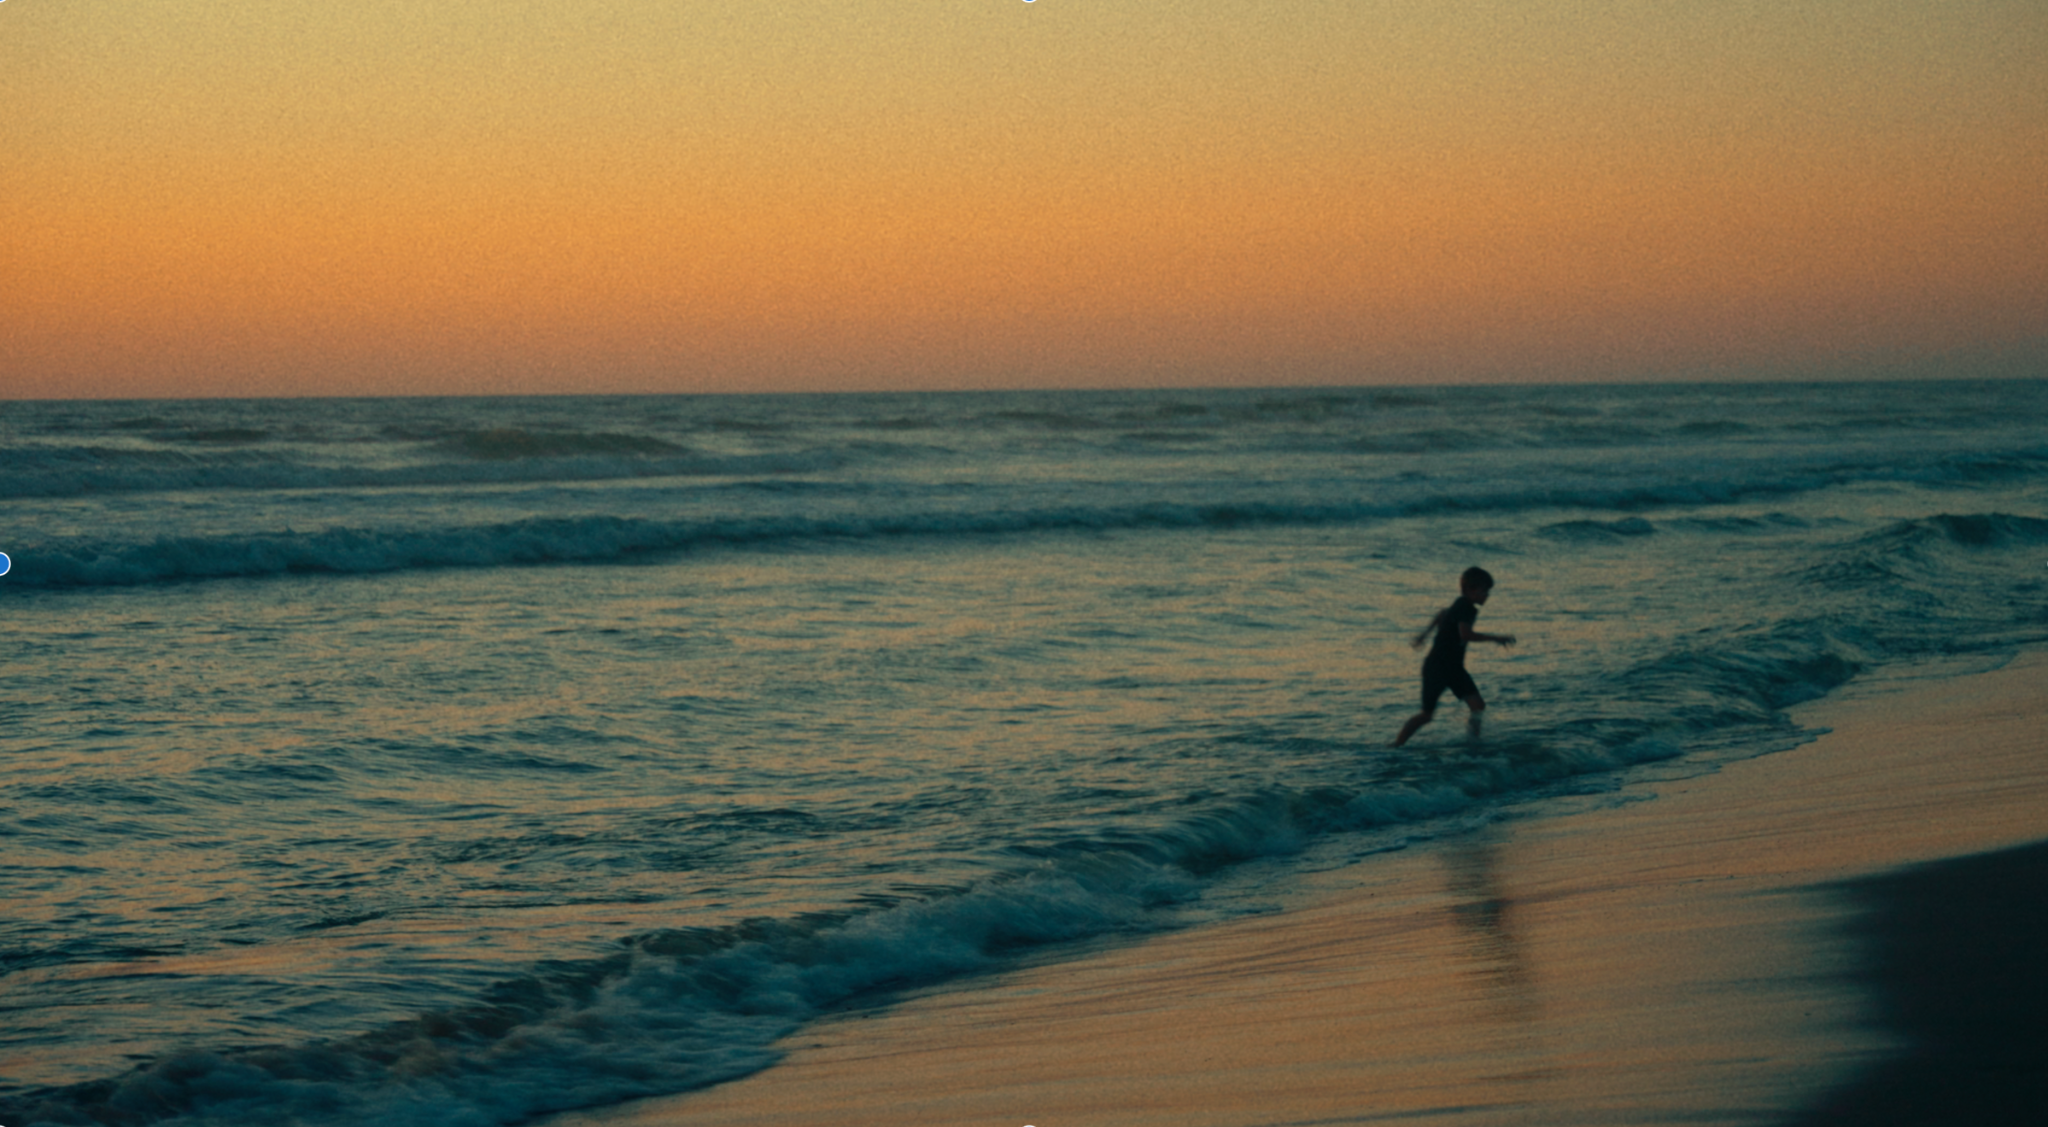
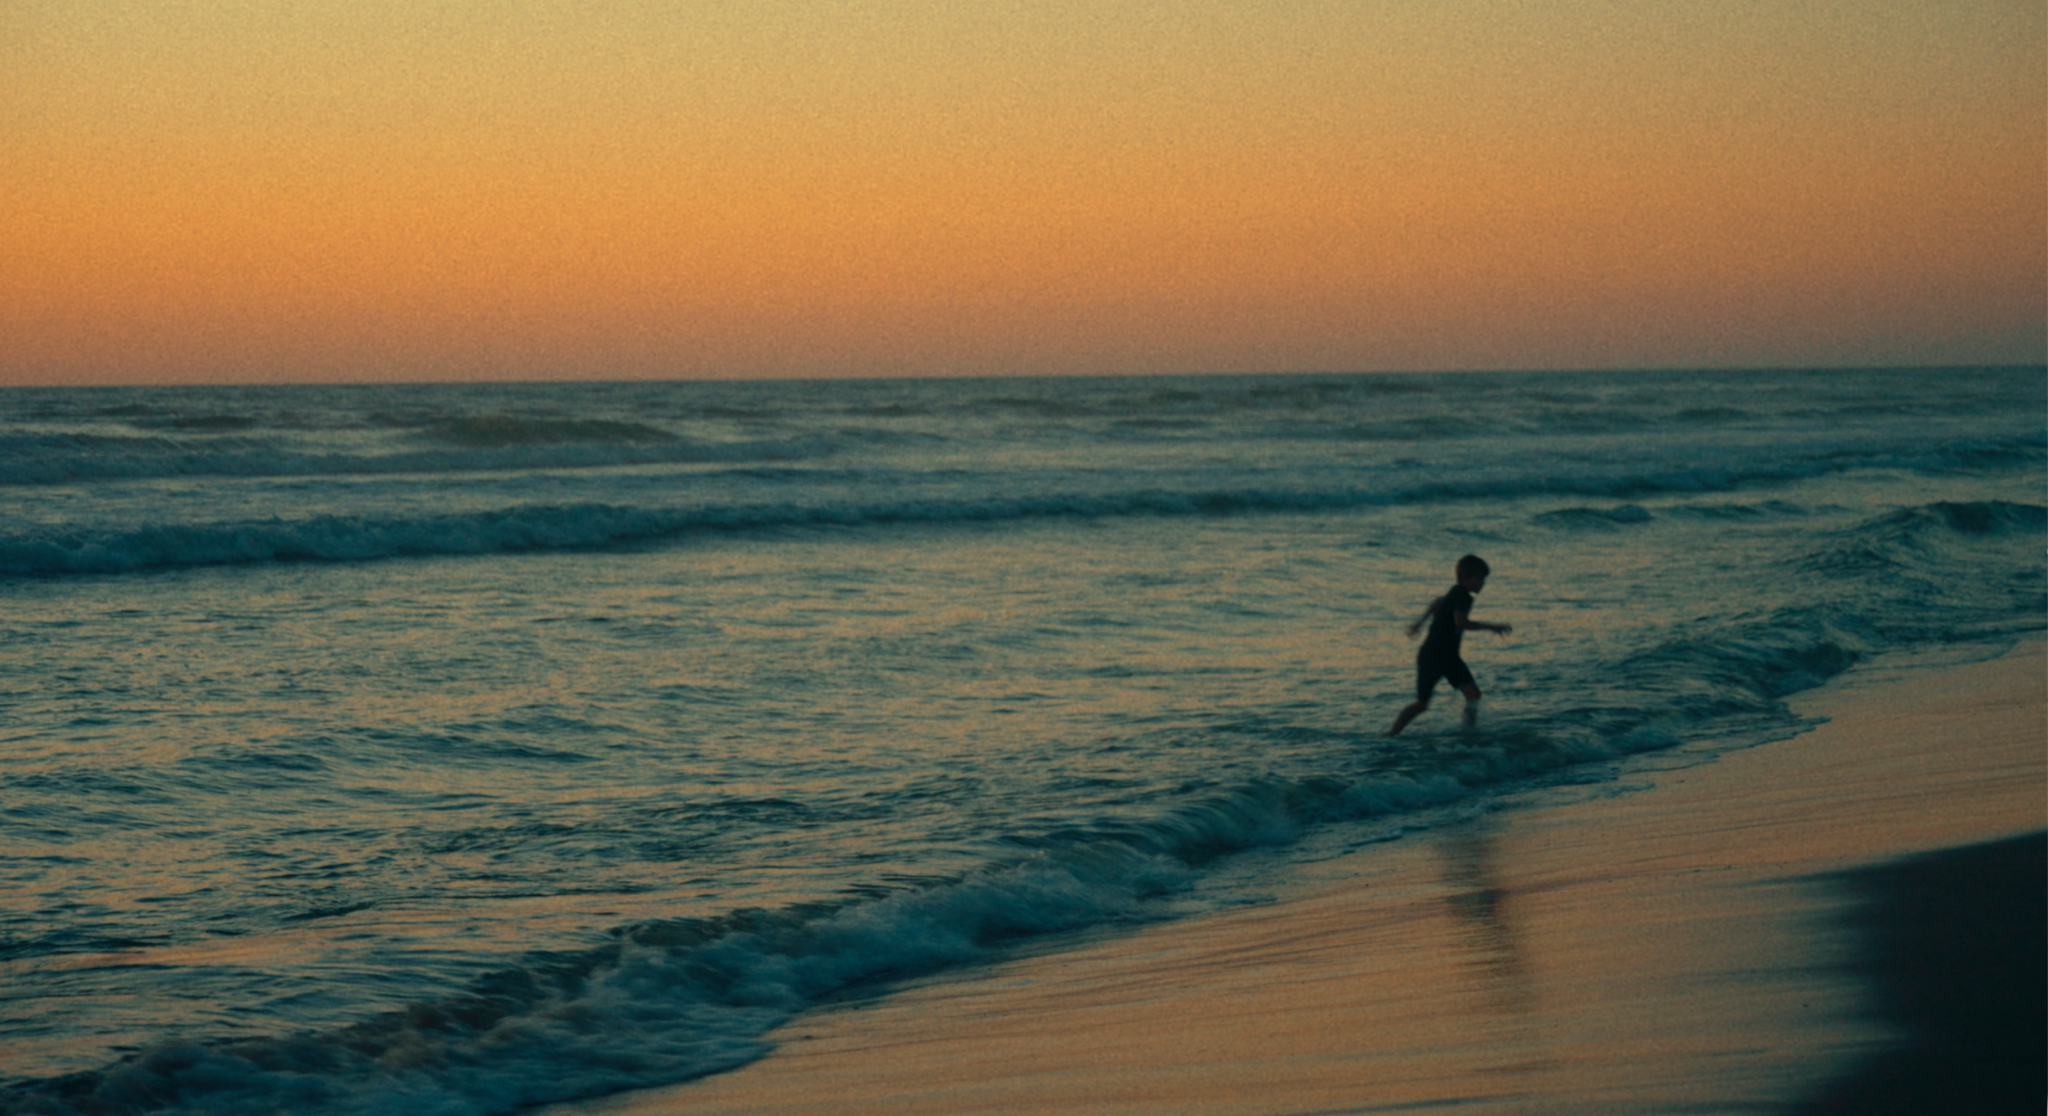
Add files via upload

diff --git a/index.html b/index.html
@@ -10,4 +10,4 @@
 article img.lolo-cover{object-fit:contain;background:#151515}
 @media(max-width:720px){.hero{min-height:80svh;padding:85px 0;background-position:60% center}.hero h1{font-size:clamp(64px,16vw,110px)}.hero .pill{font-size:10px}}
 .thumbnail-link{display:block;cursor:pointer}.thumbnail-link img{display:block}
-</style><header><div class="wrap"><b>FANNY GERARD PRODUCTION</b><nav><a href="#productions">Productions</a><a href="#fgprod">FG PROD</a><a href="#lumiere">Lumière</a><a href="#camera">Caméra</a><a href="#realisation">Réalisation</a><a href="#apropos">À propos</a><a href="#contact">Contact</a></nav></div></header><main><div class="hero"><div class="wrap"><label>RÉALISATRICE &amp; TECHNICIENNE AUDIOVISUELLE</label><h1>FANNY<br>GERARD</h1><p>Je réalise des projets audiovisuels de A à Z et j’intègre des équipes de tournage en caméra et en lumière.</p><div class="heroMeta"><span class="pill">Bordeaux · Paris · France</span><span class="pill">Freelance / Micro-entreprise</span><span class="pill">Disponible selon projets</span></div></div></div><section id="productions"><div class="wrap"><label>01 / PORTFOLIO</label><h2>Productions indépendantes.</h2><div class="grid"><article><a class="thumbnail-link" href="https://www.instagram.com/reel/DN02nFZI5xp/" target="_blank" rel="noopener noreferrer" aria-label="Voir la vidéo"><img src="images/nap.png" alt="NAP Drinks"></a><div class="details"><div><h3>NAP Drinks</h3><small>Publicité produit</small><p>Réalisation · cadrage · montage · étalonnage</p></div><a href="https://www.instagram.com/reel/DN02nFZI5xp/" target="_blank">↗</a></div></article><article><a class="thumbnail-link" href="https://youtu.be/lbYtPJ21neQ" target="_blank" rel="noopener noreferrer" aria-label="Voir le film du Festival de Montoire 2025"><img src="images/montoire.png" alt="Festival de Montoire 2025"></a><div class="details"><div><h3>Festival de Montoire 2025</h3><small>Film événementiel · 25 min</small><p>Réalisation · cadrage · montage · étalonnage</p></div><a href="https://youtu.be/lbYtPJ21neQ" target="_blank" rel="noopener noreferrer">↗</a></div></article><article><a class="thumbnail-link" href="https://www.instagram.com/reel/DWg3aoEjCRD/" target="_blank" rel="noopener noreferrer" aria-label="Voir la vidéo"><img class="lolo-cover" src="images/lolo.jpg" alt="Lolo le Daron — portrait influenceur"></a><div class="details"><div><h3>Lolo le Daron</h3><small>Portrait influenceur</small><p>Réalisation · cadrage · montage · étalonnage</p></div><a href="https://www.instagram.com/reel/DWg3aoEjCRD/" target="_blank">↗</a></div></article><article><a class="thumbnail-link" href="https://www.instagram.com/reel/DSe3EsWjUMN/" target="_blank" rel="noopener noreferrer" aria-label="Voir la vidéo"><img src="images/van.jpg" alt="VAN3COGH — MEDOCC"></a><div class="details"><div><h3>VAN3COGH — MEDOCC</h3><small>Clip indépendant</small><p>Réalisation · cadrage · montage · étalonnage</p></div><a href="https://www.instagram.com/reel/DSe3EsWjUMN/" target="_blank">↗</a></div></article></div></div></section><section id="fgprod"><div class="wrap"><label>02 / CRÉATIONS PERSONNELLES</label><h2>FG PROD.</h2><p class="intro">Je crée des vidéos et des montages à partir de mes propres images. Un espace de création libre pour explorer le cadrage, le rythme, l’étalonnage et la narration visuelle.</p><div class="trip"><a class="thumbnail-link" href="https://www.tiktok.com/@fgprodd" target="_blank" rel="noopener noreferrer" aria-label="Voir la vidéo"><img src="images/fg1.png"></a><a class="thumbnail-link" href="https://www.tiktok.com/@fgprodd" target="_blank" rel="noopener noreferrer" aria-label="Voir la vidéo"><img src="images/fg2.jpg"></a><a class="thumbnail-link" href="https://www.tiktok.com/@fgprodd" target="_blank" rel="noopener noreferrer" aria-label="Voir la vidéo"><img src="images/fg3.jpg"></a></div><div class="stats"><div><strong>300 K+</strong><span>J’aime cumulés</span></div><div><strong>2,6 M+</strong><span>Vues cumulées</span></div></div><a class="button" href="https://www.tiktok.com/@fgprodd" target="_blank">Voir mon TikTok ↗</a></div></section><section id="lumiere"><div class="wrap"><label>03 / PORTFOLIO</label><h2>Lumière.</h2><div class="grid"><article><a class="thumbnail-link" href="https://youtu.be/jpMje8tyqRI" target="_blank" rel="noopener noreferrer" aria-label="Voir la vidéo"><img src="images/noe.jpg" alt="L’Été de Noé"></a><div class="details"><div><h3>L’Été de Noé</h3><small>Fiction · Réal. Marilou Ecalle</small><p>Électricienne</p></div><a href="https://youtu.be/jpMje8tyqRI" target="_blank">↗</a></div></article><article><a class="thumbnail-link" href="https://www.instagram.com/reel/DIJI4PXRBWA/" target="_blank" rel="noopener noreferrer" aria-label="Voir la vidéo"><img src="images/leo.jpg" alt="Portrait — Léo Fiévet"></a><div class="details"><div><h3>Portrait — Léo Fiévet</h3><small>Portrait · Réal. Justine Puisais</small><p>Cheffe électricienne</p></div><a href="https://www.instagram.com/reel/DIJI4PXRBWA/" target="_blank">↗</a></div></article><article><a class="thumbnail-link" href="https://www.instagram.com/reel/DVzDccfCDkB/" target="_blank" rel="noopener noreferrer" aria-label="Voir la vidéo"><img src="images/mano.jpg" alt="Spot de prévention — Violences faites aux femmes"></a><div class="details"><div><h3>Spot de prévention — Violences faites aux femmes</h3><small>Spot étudiant · Réal. Mano Turpault</small><p>Cheffe électricienne</p></div><a href="https://www.instagram.com/reel/DVzDccfCDkB/" target="_blank">↗</a></div></article><article><a class="thumbnail-link" href="https://youtu.be/7iShcrOW0bw" target="_blank" rel="noopener noreferrer" aria-label="Voir la vidéo"><img src="images/jean.jpg" alt="Portrait — Jean Bouet"></a><div class="details"><div><h3>Portrait — Jean Bouet</h3><small>Portrait · Réal. Mathis Phillipeau</small><p>Cheffe électricienne</p></div><a href="https://youtu.be/7iShcrOW0bw" target="_blank">↗</a></div></article><article><a class="thumbnail-link" href="https://youtu.be/4Xk5ue0Qy3Q" target="_blank" rel="noopener noreferrer" aria-label="Voir la vidéo"><img src="images/cantal.jpg" alt="L’Enfant du Cantal"></a><div class="details"><div><h3>L’Enfant du Cantal</h3><small>Portrait · Réal. Olivia Maillot</small><p>Électricienne & machiniste</p></div><a href="https://youtu.be/4Xk5ue0Qy3Q" target="_blank">↗</a></div></article></div></div></section><section id="camera"><div class="wrap"><label>04 / PORTFOLIO</label><h2>Caméra.</h2><div class="grid"><article><a class="thumbnail-link" href="https://youtu.be/XimKsVnmYOU" target="_blank" rel="noopener noreferrer" aria-label="Voir la vidéo"><img src="images/revolt.jpg" alt="REVOLT"></a><div class="details"><div><h3>REVOLT</h3><small>Fiction · Réal. Paloma Joly</small><p>2e assistante caméra</p></div><a href="https://youtu.be/XimKsVnmYOU" target="_blank">↗</a></div></article><article><a class="thumbnail-link" href="https://youtu.be/6MWbTDWa2gs" target="_blank" rel="noopener noreferrer" aria-label="Voir la vidéo"><img src="images/redbull.jpg" alt="Red Bull — Packshot"></a><div class="details"><div><h3>Red Bull — Packshot</h3><small>Exercice étudiant non officiel</small><p>Cadreuse & co-réalisatrice</p></div><a href="https://youtu.be/6MWbTDWa2gs" target="_blank">↗</a></div></article></div></div></section><section id="realisation"><div class="wrap"><label>05 / PORTFOLIO</label><h2>Réalisation.</h2><div class="grid"></div></div></section><section id="realisation"><div class="wrap"><label>05 / PORTFOLIO</label><h2>Réalisation.</h2><div class="grid"><article><a class="thumbnail-link" href="https://www.youtube.com/watch?v=_Kj_69RmBOM" target="_blank" rel="noopener noreferrer" aria-label="Voir Bon anniversaire mon amour"><img src="images/bon_anniversaire.jpg" alt="Bon anniversaire mon amour"></a><div class="details"><div><h3>Bon anniversaire mon amour</h3><small>Court-métrage · défi 48 h</small><p>Co-réalisation avec Olivia Maillot · scénario</p></div><a href="https://www.youtube.com/watch?v=_Kj_69RmBOM" target="_blank" rel="noopener noreferrer">↗</a></div></article><article><a class="thumbnail-link" href="https://youtu.be/oxrjQ-xYpvI?feature=shared" target="_blank" rel="noopener noreferrer" aria-label="Voir la publicité"><img src="images/pub.jpg" alt="Publicité — projet audiovisuel"></a><div class="details"><div><h3>Publicité</h3><small>Projet publicitaire</small></div><a href="https://youtu.be/oxrjQ-xYpvI?feature=shared" target="_blank" rel="noopener noreferrer">↗</a></div></article></div></div></section><section id="apropos"><div class="wrap"><label>06 / À PROPOS</label><h2>Sur le terrain. Et à l’image.</h2><p class="intro">Je suis Fanny Gerard, réalisatrice et technicienne audiovisuelle indépendante. Je réalise mes propres productions et rejoins des équipes de tournage en caméra et en lumière.</p></div></section><section id="contact"><div class="wrap"><label>07 / CONTACT</label><h2>Contact.</h2><div class="contactlinks"><a href="mailto:fannygerard05@gmail.com">fannygerard05@gmail.com ↗</a><a href="https://www.instagram.com/fannygerardproduction" target="_blank">Instagram ↗</a></div></div></section></main><footer class="wrap">© 2026 Fanny Gerard Production · Portfolio</footer></html>
+</style><header><div class="wrap"><b>FANNY GERARD PRODUCTION</b><nav><a href="#productions">Productions</a><a href="#fgprod">FG PROD</a><a href="#lumiere">Lumière</a><a href="#camera">Caméra</a><a href="#realisation">Réalisation</a><a href="#apropos">À propos</a><a href="#contact">Contact</a></nav></div></header><main><div class="hero"><div class="wrap"><label>RÉALISATRICE &amp; TECHNICIENNE AUDIOVISUELLE</label><h1>FANNY<br>GERARD</h1><p>Je réalise des projets audiovisuels de A à Z et j’intègre des équipes de tournage en caméra et en lumière.</p><div class="heroMeta"><span class="pill">Bordeaux · Paris · France</span><span class="pill">Freelance / Micro-entreprise</span><span class="pill">Disponible selon projets</span></div></div></div><section id="productions"><div class="wrap"><label>01 / PORTFOLIO</label><h2>Productions indépendantes.</h2><div class="grid"><article><a class="thumbnail-link" href="https://www.instagram.com/reel/DN02nFZI5xp/" target="_blank" rel="noopener noreferrer" aria-label="Voir la vidéo"><img src="images/nap.png" alt="NAP Drinks"></a><div class="details"><div><h3>NAP Drinks</h3><small>Publicité produit</small><p>Réalisation · cadrage · montage · étalonnage</p></div><a href="https://www.instagram.com/reel/DN02nFZI5xp/" target="_blank">↗</a></div></article><article><a class="thumbnail-link" href="https://youtu.be/lbYtPJ21neQ" target="_blank" rel="noopener noreferrer" aria-label="Voir le film du Festival de Montoire 2025"><img src="images/montoire.png" alt="Festival de Montoire 2025"></a><div class="details"><div><h3>Festival de Montoire 2025</h3><small>Film événementiel · 25 min</small><p>Réalisation · cadrage · montage · étalonnage</p></div><a href="https://youtu.be/lbYtPJ21neQ" target="_blank" rel="noopener noreferrer">↗</a></div></article><article><a class="thumbnail-link" href="https://www.instagram.com/reel/DWg3aoEjCRD/" target="_blank" rel="noopener noreferrer" aria-label="Voir la vidéo"><img class="lolo-cover" src="images/lolo.jpg" alt="Lolo le Daron — portrait influenceur"></a><div class="details"><div><h3>Lolo le Daron</h3><small>Portrait influenceur</small><p>Réalisation · cadrage · montage · étalonnage</p></div><a href="https://www.instagram.com/reel/DWg3aoEjCRD/" target="_blank">↗</a></div></article><article><a class="thumbnail-link" href="https://www.instagram.com/reel/DSe3EsWjUMN/" target="_blank" rel="noopener noreferrer" aria-label="Voir la vidéo"><img src="images/van.jpg" alt="VAN3COGH — MEDOCC"></a><div class="details"><div><h3>VAN3COGH — MEDOCC</h3><small>Clip indépendant</small><p>Réalisation · cadrage · montage · étalonnage</p></div><a href="https://www.instagram.com/reel/DSe3EsWjUMN/" target="_blank">↗</a></div></article></div></div></section><section id="fgprod"><div class="wrap"><label>02 / CRÉATIONS PERSONNELLES</label><h2>FG PROD.</h2><p class="intro">Je crée des vidéos et des montages à partir de mes propres images. Un espace de création libre pour explorer le cadrage, le rythme, l’étalonnage et la narration visuelle.</p><div class="trip"><a class="thumbnail-link" href="https://www.tiktok.com/@fgprodd" target="_blank" rel="noopener noreferrer" aria-label="Voir la vidéo"><img src="images/fg1.png"></a><a class="thumbnail-link" href="https://www.tiktok.com/@fgprodd" target="_blank" rel="noopener noreferrer" aria-label="Voir la vidéo"><img src="images/fg2.jpg"></a><a class="thumbnail-link" href="https://www.tiktok.com/@fgprodd" target="_blank" rel="noopener noreferrer" aria-label="Voir la vidéo"><img src="images/fg3.jpg"></a></div><div class="stats"><div><strong>300 K+</strong><span>J’aime cumulés</span></div><div><strong>2,6 M+</strong><span>Vues cumulées</span></div></div><a class="button" href="https://www.tiktok.com/@fgprodd" target="_blank">Voir mon TikTok ↗</a></div></section><section id="lumiere"><div class="wrap"><label>03 / PORTFOLIO</label><h2>Lumière.</h2><div class="grid"><article><a class="thumbnail-link" href="https://youtu.be/jpMje8tyqRI" target="_blank" rel="noopener noreferrer" aria-label="Voir la vidéo"><img src="images/noe.jpg" alt="L’Été de Noé"></a><div class="details"><div><h3>L’Été de Noé</h3><small>Fiction · Réal. Marilou Ecalle</small><p>Électricienne</p></div><a href="https://youtu.be/jpMje8tyqRI" target="_blank">↗</a></div></article><article><a class="thumbnail-link" href="https://www.instagram.com/reel/DIJI4PXRBWA/" target="_blank" rel="noopener noreferrer" aria-label="Voir la vidéo"><img src="images/leo.jpg" alt="Portrait — Léo Fiévet"></a><div class="details"><div><h3>Portrait — Léo Fiévet</h3><small>Portrait · Réal. Justine Puisais</small><p>Cheffe électricienne</p></div><a href="https://www.instagram.com/reel/DIJI4PXRBWA/" target="_blank">↗</a></div></article><article><a class="thumbnail-link" href="https://www.instagram.com/reel/DVzDccfCDkB/" target="_blank" rel="noopener noreferrer" aria-label="Voir la vidéo"><img src="images/mano.jpg" alt="Spot de prévention — Violences faites aux femmes"></a><div class="details"><div><h3>Spot de prévention — Violences faites aux femmes</h3><small>Spot étudiant · Réal. Mano Turpault</small><p>Cheffe électricienne</p></div><a href="https://www.instagram.com/reel/DVzDccfCDkB/" target="_blank">↗</a></div></article><article><a class="thumbnail-link" href="https://youtu.be/7iShcrOW0bw" target="_blank" rel="noopener noreferrer" aria-label="Voir la vidéo"><img src="images/jean.jpg" alt="Portrait — Jean Bouet"></a><div class="details"><div><h3>Portrait — Jean Bouet</h3><small>Portrait · Réal. Mathis Phillipeau</small><p>Cheffe électricienne</p></div><a href="https://youtu.be/7iShcrOW0bw" target="_blank">↗</a></div></article><article><a class="thumbnail-link" href="https://youtu.be/4Xk5ue0Qy3Q" target="_blank" rel="noopener noreferrer" aria-label="Voir la vidéo"><img src="images/cantal.jpg" alt="L’Enfant du Cantal"></a><div class="details"><div><h3>L’Enfant du Cantal</h3><small>Portrait · Réal. Olivia Maillot</small><p>Électricienne & machiniste</p></div><a href="https://youtu.be/4Xk5ue0Qy3Q" target="_blank">↗</a></div></article></div></div></section><section id="camera"><div class="wrap"><label>04 / PORTFOLIO</label><h2>Caméra.</h2><div class="grid"><article><a class="thumbnail-link" href="https://youtu.be/XimKsVnmYOU" target="_blank" rel="noopener noreferrer" aria-label="Voir la vidéo"><img src="images/revolt.jpg" alt="REVOLT"></a><div class="details"><div><h3>REVOLT</h3><small>Fiction · Réal. Paloma Joly</small><p>2e assistante caméra</p></div><a href="https://youtu.be/XimKsVnmYOU" target="_blank">↗</a></div></article><article><a class="thumbnail-link" href="https://youtu.be/6MWbTDWa2gs" target="_blank" rel="noopener noreferrer" aria-label="Voir la vidéo"><img src="images/redbull.jpg" alt="Red Bull — Packshot"></a><div class="details"><div><h3>Red Bull — Packshot</h3><small>Exercice étudiant non officiel</small><p>Cadreuse & co-réalisatrice</p></div><a href="https://youtu.be/6MWbTDWa2gs" target="_blank">↗</a></div></article></div></div></section><section id="realisation"><div class="wrap"><label>05 / PORTFOLIO</label><h2>Réalisation.</h2><div class="grid"><article><a class="thumbnail-link" href="https://www.youtube.com/watch?v=_Kj_69RmBOM" target="_blank" rel="noopener noreferrer" aria-label="Voir Bon anniversaire mon amour"><img src="images/bon_anniversaire.jpg" alt="Bon anniversaire mon amour"></a><div class="details"><div><h3>Bon anniversaire mon amour</h3><small>Court-métrage · défi 48 h</small><p>Co-réalisation avec Olivia Maillot · scénario</p></div><a href="https://www.youtube.com/watch?v=_Kj_69RmBOM" target="_blank" rel="noopener noreferrer">↗</a></div></article><article><a class="thumbnail-link" href="https://youtu.be/oxrjQ-xYpvI?feature=shared" target="_blank" rel="noopener noreferrer" aria-label="Voir la publicité"><img src="images/pub.jpg" alt="Publicité — projet audiovisuel"></a><div class="details"><div><h3>Publicité</h3><small>Projet publicitaire</small></div><a href="https://youtu.be/oxrjQ-xYpvI?feature=shared" target="_blank" rel="noopener noreferrer">↗</a></div></article></div></div></section><section id="apropos"><div class="wrap"><label>06 / À PROPOS</label><h2>Sur le terrain. Et à l’image.</h2><p class="intro">Je suis Fanny Gerard, réalisatrice et technicienne audiovisuelle indépendante. Je réalise mes propres productions et rejoins des équipes de tournage en caméra et en lumière.</p></div></section><section id="contact"><div class="wrap"><label>07 / CONTACT</label><h2>Contact.</h2><div class="contactlinks"><a href="mailto:fannygerard05@gmail.com">fannygerard05@gmail.com ↗</a><a href="https://www.instagram.com/fannygerardproduction" target="_blank">Instagram ↗</a></div></div></section></main><footer class="wrap">© 2026 Fanny Gerard Production · Portfolio</footer></html>
